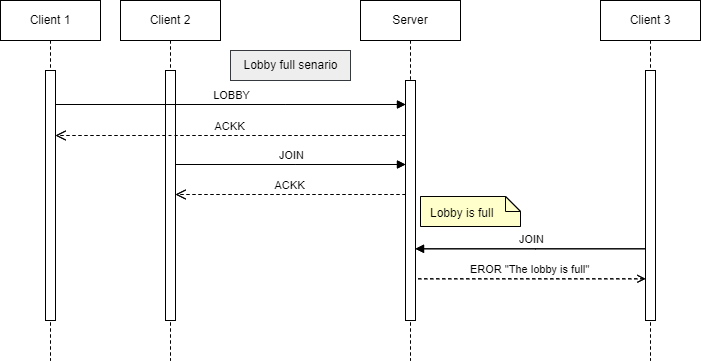
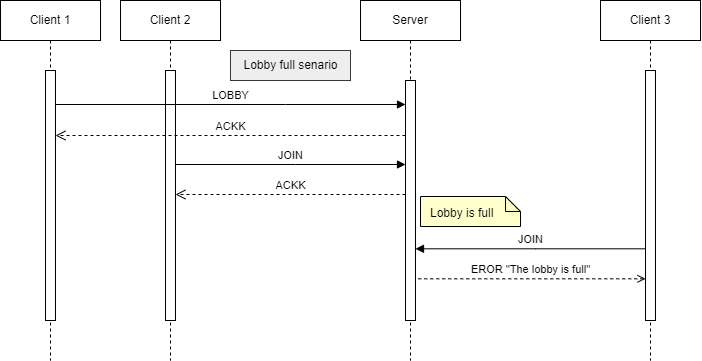
Update diagramm and remove commande PING

diff --git a/README.md b/README.md
@@ -164,7 +164,6 @@ The protocol is based on a simple text-based message exchange. Each message is a
 | JOIN \<num\>          | Join the lobby                            |
 | LIST                  | List all existing lobby                   |
 | PIPE \<position _y_\> | Place a new pipe                          |
-| PING                  | Request data for display                  |
 | QUIT                  | Quit the game                             |
 
 _LOBY_, _JOIN_, _LIST_, _PIPE_ is for multiplayer case.
